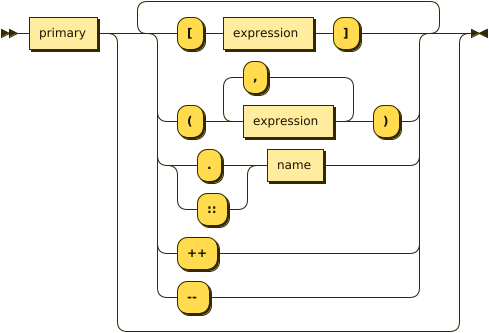
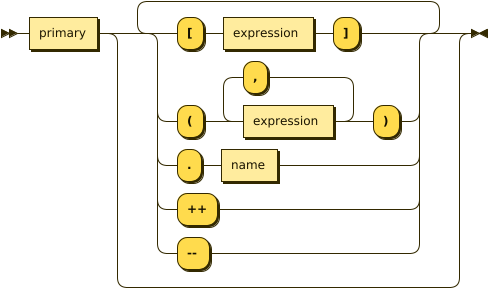
Better solution for addressing superclass member functions

Changed region(s): [[0.0, 0.0, 1.0, 1.0]]

diff --git a/docs/guide.html b/docs/guide.html
@@ -1895,7 +1895,8 @@ print(&quot;The default temperature is &quot;, f.temperature, &quot;° Fahrenhei
 </code></pre>
             <p>
               In case the class is derived from a class that also has a
-              constructor, the superclass constructor must also be called like:
+              constructor, the superclass constructor must also be called like
+              this:
             </p>
             <pre><code>class Temperature : Object {
 	function __init__(this) {
@@ -1905,7 +1906,7 @@ print(&quot;The default temperature is &quot;, f.temperature, &quot;° Fahrenhei
 
 class Fahrenheit : Temperature {
 	function __init__(this) {
-		Temperature::__init__(this);
+		super.__init__(this);
 		this.temperature = 32;
 	}
 }
@@ -1965,7 +1966,7 @@ class B : A {
 </code></pre>
             <p>
               It’s valid for a subclass member to call a superclass member using
-              the Scope Resolution Operator (<strong>::</strong>):
+              the <strong>super</strong> special keyword.
             </p>
             <pre><code>class A : Object {
 	function someMethod(this, value) {
@@ -1975,7 +1976,7 @@ class B : A {
 
 class B : A {
 	function someMethod(this, value) {
-		A::someMethod(this, value);
+		super.someMethod(this, value);
 		print(&quot;B.someMethod(&quot;, value, &quot;)&quot;);
 	}
 }
@@ -1983,6 +1984,21 @@ class B : A {
 var b = B();
 b.someMethod(2);
 </code></pre>
+            <p>
+              Please note that the <strong>super</strong> mechanism can only be
+              used in a class definition and it is basically a shortcut to the
+              superclass' specified member function. As such, the resulting
+              reference is unbound and you have to pass the target object as the
+              first parameter in the member function call.
+            </p>
+            <p>
+              In the above example <strong>b.someMethod(2)</strong> is
+              translated into a bound member function call and
+              <strong>someMethod</strong> is called with <strong>b</strong> and
+              <strong>2</strong> as parameters.
+              <strong>super.someMethod</strong> is an unbound member function
+              call and you will have to pass the object.
+            </p>
           </div>
           <div id="functions">
             <h1 class="pb-2">Functions</h1>

diff --git a/docs/language.html b/docs/language.html
@@ -248,7 +248,7 @@
           <div id="postfix">
             <h1 class="pb-2">postfix</h1>
             <p><img src="img/postfix.png" alt="Railroad Diagram" /></p>
-            <pre><code>postfix ::= primary (&quot;[&quot; expression &quot;]&quot; | &quot;(&quot; expression (&quot;,&quot; expression)* &quot;)&quot; | &quot;.&quot; name | &quot;::&quot; name | &quot;++&quot; | &quot;--&quot;)*
+            <pre><code>postfix ::= primary (&quot;[&quot; expression &quot;]&quot; | &quot;(&quot; expression (&quot;,&quot; expression)* &quot;)&quot; | &quot;.&quot; name | &quot;++&quot; | &quot;--&quot;)*
 </code></pre>
           </div>
           <div id="primary">
@@ -262,6 +262,7 @@
 | string
 | function
 | name
+| &quot;super&quot; &quot;.&quot; name
 </code></pre>
           </div>
           <div id="integer">

diff --git a/ot/language/OtCompiler.cpp b/ot/language/OtCompiler.cpp
@@ -406,6 +406,27 @@ void OtCompiler::function(OtByteCode bytecode) {
 
 
 //
+//	OtCompiler::super
+//
+
+void OtCompiler::super(OtByteCode bytecode) {
+	// ensure we are in a class definition
+	if (!classStack.size()) {
+		OtError("Can't use [super] outside of a class definition");
+	}
+
+	// put class reference on stack
+	bytecode->push(classStack.back());
+
+	// parse member reference and create super instruction
+	scanner.expect(OtScanner::PERIOD_TOKEN);
+	scanner.expect(OtScanner::IDENTIFIER_TOKEN, false);
+	bytecode->super(scanner.getText());
+	scanner.advance();
+}
+
+
+//
 //	OtCompiler::primary
 //
 
@@ -446,6 +467,13 @@ bool OtCompiler::primary(OtByteCode bytecode) {
 			// handle function definition
 			scanner.advance();
 			function(bytecode);
+			reference = false;
+			break;
+
+		case OtScanner::SUPER_TOKEN:
+			// handle superclass construct
+			scanner.advance();
+			super(bytecode);
 			reference = false;
 			break;
 
@@ -532,7 +560,6 @@ bool OtCompiler::postfix(OtByteCode bytecode) {
 	while (token == OtScanner::LBRACKET_TOKEN ||
 		   token == OtScanner::LPAREN_TOKEN ||
 		   token == OtScanner::PERIOD_TOKEN ||
-		   token == OtScanner::DOUBLE_COLON_TOKEN ||
 		   token == OtScanner::INCREMENT_TOKEN ||
 		   token == OtScanner::DECREMENT_TOKEN) {
 		scanner.advance();
@@ -578,18 +605,6 @@ bool OtCompiler::postfix(OtByteCode bytecode) {
 				bytecode->member(scanner.getText());
 				scanner.advance();
 				reference = true;
-				break;
-
-			case OtScanner::DOUBLE_COLON_TOKEN:
-				// unbound member access
-				if (reference) {
-					bytecode->method("__deref__", 0);
-				}
-
-				scanner.expect(OtScanner::IDENTIFIER_TOKEN, false);
-				bytecode->unbound(scanner.getText());
-				scanner.advance();
-				reference = false;
 				break;
 
 			case OtScanner::INCREMENT_TOKEN:
@@ -1342,6 +1357,7 @@ void OtCompiler::classDeclaration(OtByteCode bytecode) {
 
 	// create new class
 	OtClass cls = OtClass::create(name);
+	classStack.push_back(cls);
 
 	// add class to current scope
 	declareVariable(bytecode, name);
@@ -1374,6 +1390,7 @@ void OtCompiler::classDeclaration(OtByteCode bytecode) {
 
 	// end class scope
 	popScope();
+	classStack.pop_back();
 }
 
 

diff --git a/ot/language/OtByteCode.h b/ot/language/OtByteCode.h
@@ -60,7 +60,7 @@ public:
 		jumpTrueOpcode,
 		jumpFalseOpcode,
 		memberOpcode,
-		unboundOpcode,
+		superOpcode,
 		methodOpcode,
 		exitOpcode,
 		pushTryOpcode,
@@ -95,14 +95,14 @@ public:
 	inline void member(const char* name) { emitOpcode(memberOpcode); emitSelector(name); }
 	inline void member(const std::string_view name) { emitOpcode(memberOpcode); emitSelector(name); }
 	inline void member(const std::string& name) { emitOpcode(memberOpcode); emitSelector(name); }
-	inline void unbound(size_t selector) { emitOpcode(unboundOpcode); emitNumber(selector); }
-	inline void unbound(const char* name) { emitOpcode(unboundOpcode); emitSelector(name); }
-	inline void unbound(const std::string_view name) { emitOpcode(unboundOpcode); emitSelector(name); }
-	inline void unbound(const std::string& name) { emitOpcode(unboundOpcode); emitSelector(name); }
 	inline void method(size_t selector, size_t count) { emitOpcode(methodOpcode); emitNumber(selector); emitNumber(count); }
 	inline void method(const char* name, size_t count) { emitOpcode(methodOpcode); emitSelector(name); emitNumber(count); }
 	inline void method(const std::string_view name, size_t count) { emitOpcode(methodOpcode); emitSelector(name); emitNumber(count); }
 	inline void method(const std::string& name, size_t count) { emitOpcode(methodOpcode); emitSelector(name); emitNumber(count); }
+	inline void super(size_t selector) { emitOpcode(superOpcode); emitNumber(selector); }
+	inline void super(const char* name) { emitOpcode(superOpcode); emitSelector(name); }
+	inline void super(const std::string_view name) { emitOpcode(superOpcode); emitSelector(name); }
+	inline void super(const std::string& name) { emitOpcode(superOpcode); emitSelector(name); }
 	inline void exit() { emitOpcode(exitOpcode); }
 	inline size_t pushTry() { emitOpcode(pushTryOpcode); return emitOffset(0); }
 	inline void pushTry(size_t offset) { emitOpcode(pushTryOpcode); emitOffset(offset); }

diff --git a/ot/language/OtByteCode.cpp b/ot/language/OtByteCode.cpp
@@ -87,16 +87,16 @@ std::string OtByteCodeClass::disassemble() {
 				buffer << "member" << OtSelector::name(getNumber(pc));
 				break;
 
-			case unboundOpcode:
-				buffer << "unbound" << OtSelector::name(getNumber(pc));
-				break;
-
 			case methodOpcode: {
 				auto method = getNumber(pc);
 				auto count =getNumber(pc);
 				buffer << "method" << OtSelector::name(method) << "(" << count << ")";
 				break;
 			}
+
+			case superOpcode:
+				buffer << "super" << OtSelector::name(getNumber(pc));
+				break;
 
 			case exitOpcode:
 				buffer << "exit";
@@ -203,8 +203,8 @@ void OtByteCodeClass::copyInstruction(OtByteCode other, size_t pc) {
 			member(other->getNumber(pc));
 			break;
 
-		case unboundOpcode:
-			unbound(other->getNumber(pc));
+		case superOpcode:
+			super(other->getNumber(pc));
 			break;
 
 		case methodOpcode: {
@@ -313,12 +313,12 @@ size_t OtByteCodeClass::getInstructionSize(size_t offset) {
 			getNumber(pc);
 			break;
 
-		case unboundOpcode:
+		case methodOpcode:
+			getNumber(pc);
 			getNumber(pc);
 			break;
 
-		case methodOpcode:
-			getNumber(pc);
+		case superOpcode:
 			getNumber(pc);
 			break;
 

diff --git a/ot/language/OtVM.cpp b/ot/language/OtVM.cpp
@@ -14,6 +14,7 @@
 #include "fmt/format.h"
 
 #include "OtAssert.h"
+#include "OtClass.h"
 #include "OtException.h"
 #include "OtFunction.h"
 #include "OtLog.h"
@@ -144,12 +145,11 @@ OtObject OtVM::execute(OtByteCode bytecode, size_t callingParameters) {
 					break;
 				}
 
-				case OtByteCodeClass::unboundOpcode: {
-					// put an unbound member on the stack
-					auto object = stack.pop();
+				case OtByteCodeClass::superOpcode: {
+					auto cls = OtClass(stack.pop());
 					auto member = bytecode->getNumber(pc);
-					auto unbound = OtMemberReferenceClass::resolveMember(object, member, true);
-					stack.push(unbound);
+					auto result = cls->getSuper(member);
+					stack.push(result);
 					break;
 				}
 

diff --git a/ot/language/OtMemberReference.h b/ot/language/OtMemberReference.h
@@ -42,12 +42,12 @@ public:
 	OtObject assign(OtObject value) { return object->set(member, value); }
 
 	// resolve member reference and deal with bound functions if required
-	static OtObject resolveMember(OtObject& object, size_t member, bool unbound=false) {
+	static OtObject resolveMember(OtObject& object, size_t member) {
 		// get the member
 		auto memberObject = object->get(member);
 
 		// never create bound functions for Modules or Globals
-		if (unbound || object.isKindOf<OtModuleClass>() || object.isKindOf<OtGlobalClass>()) {
+		if (object.isKindOf<OtModuleClass>() || object.isKindOf<OtGlobalClass>()) {
 			return memberObject;
 
 		// create bound function if required

diff --git a/ot/core/OtClass.cpp b/ot/core/OtClass.cpp
@@ -87,6 +87,25 @@ OtObject& OtClassClass::get(size_t selector) {
 
 
 //
+//	OtClassClass::getSuper
+//
+
+ OtObject OtClassClass::getSuper(size_t selector) {
+	for (auto t = classType ? classType->getParent() : classType; t; t = t->getParent()) {
+		if (t->has(selector)) {
+			return t->get(selector);
+		}
+	}
+
+	auto name = OtSelector::name(selector);
+	OtError("Unknown member [{}] in superclass of [{}]", name, type->getName());
+
+	// we will never get here because of the exception but a return statement keeps the compiler happy
+	return members->get(selector);
+ }
+
+
+//
 //	OtClassClass::getMeta
 //
 

diff --git a/ot/language/OtCompiler.h b/ot/language/OtCompiler.h
@@ -16,6 +16,7 @@
 #include <unordered_map>
 
 #include "OtByteCode.h"
+#include "OtClass.h"
 #include "OtModule.h"
 #include "OtOptimizer.h"
 #include "OtScanner.h"
@@ -61,6 +62,9 @@ private:
 
 	// compile function
 	void function(OtByteCode bytecode);
+
+	// compile superclass reference
+	void super(OtByteCode bytecode);
 
 	// compile primary expression
 	bool primary(OtByteCode bytecode);
@@ -183,6 +187,9 @@ private:
 	};
 
 	std::vector<OtScope> scopeStack;
+
+	// class tracker
+	std::vector<OtClass> classStack;
 
 	// debugging support
 	bool disassembleBytecode = false;

diff --git a/ot/language/OtScanner.cpp b/ot/language/OtScanner.cpp
@@ -34,7 +34,6 @@ OtScanner::OtScanner() {
 	addToken("}", RBRACE_TOKEN);
 	addToken(",", COMMA_TOKEN);
 	addToken(".", PERIOD_TOKEN);
-	addToken("::", DOUBLE_COLON_TOKEN);
 	addToken(":", COLON_TOKEN);
 	addToken(";", SEMICOLON_TOKEN);
 	addToken("?", QUESTION_TOKEN);
@@ -83,6 +82,7 @@ OtScanner::OtScanner() {
 	addToken("in", IN_TOKEN);
 	addToken("not", NOT_TOKEN);
 	addToken("return", RETURN_TOKEN);
+	addToken("super", SUPER_TOKEN);
 	addToken("throw", THROW_TOKEN);
 	addToken("try", TRY_TOKEN);
 	addToken("var", VAR_TOKEN);

diff --git a/ot/core/OtClass.h b/ot/core/OtClass.h
@@ -47,6 +47,9 @@ public:
 	OtObject set(size_t selector, OtObject value) override { return classType->set(selector, value); }
 	void unset(size_t selector) override { return classType->unset(selector); }
 
+	// special superclass member access
+	OtObject getSuper(size_t selector);
+
 	// get the classes type
 	OtType getClassType() { return classType; }
 

diff --git a/ot/language/OtScanner.h b/ot/language/OtScanner.h
@@ -50,7 +50,6 @@ public:
 		COMMA_TOKEN,
 		PERIOD_TOKEN,
 		COLON_TOKEN,
-		DOUBLE_COLON_TOKEN,
 		SEMICOLON_TOKEN,
 		QUESTION_TOKEN,
 
@@ -106,6 +105,7 @@ public:
 		IN_TOKEN,
 		NOT_TOKEN,
 		RETURN_TOKEN,
+		SUPER_TOKEN,
 		THROW_TOKEN,
 		TRY_TOKEN,
 		VAR_TOKEN,
